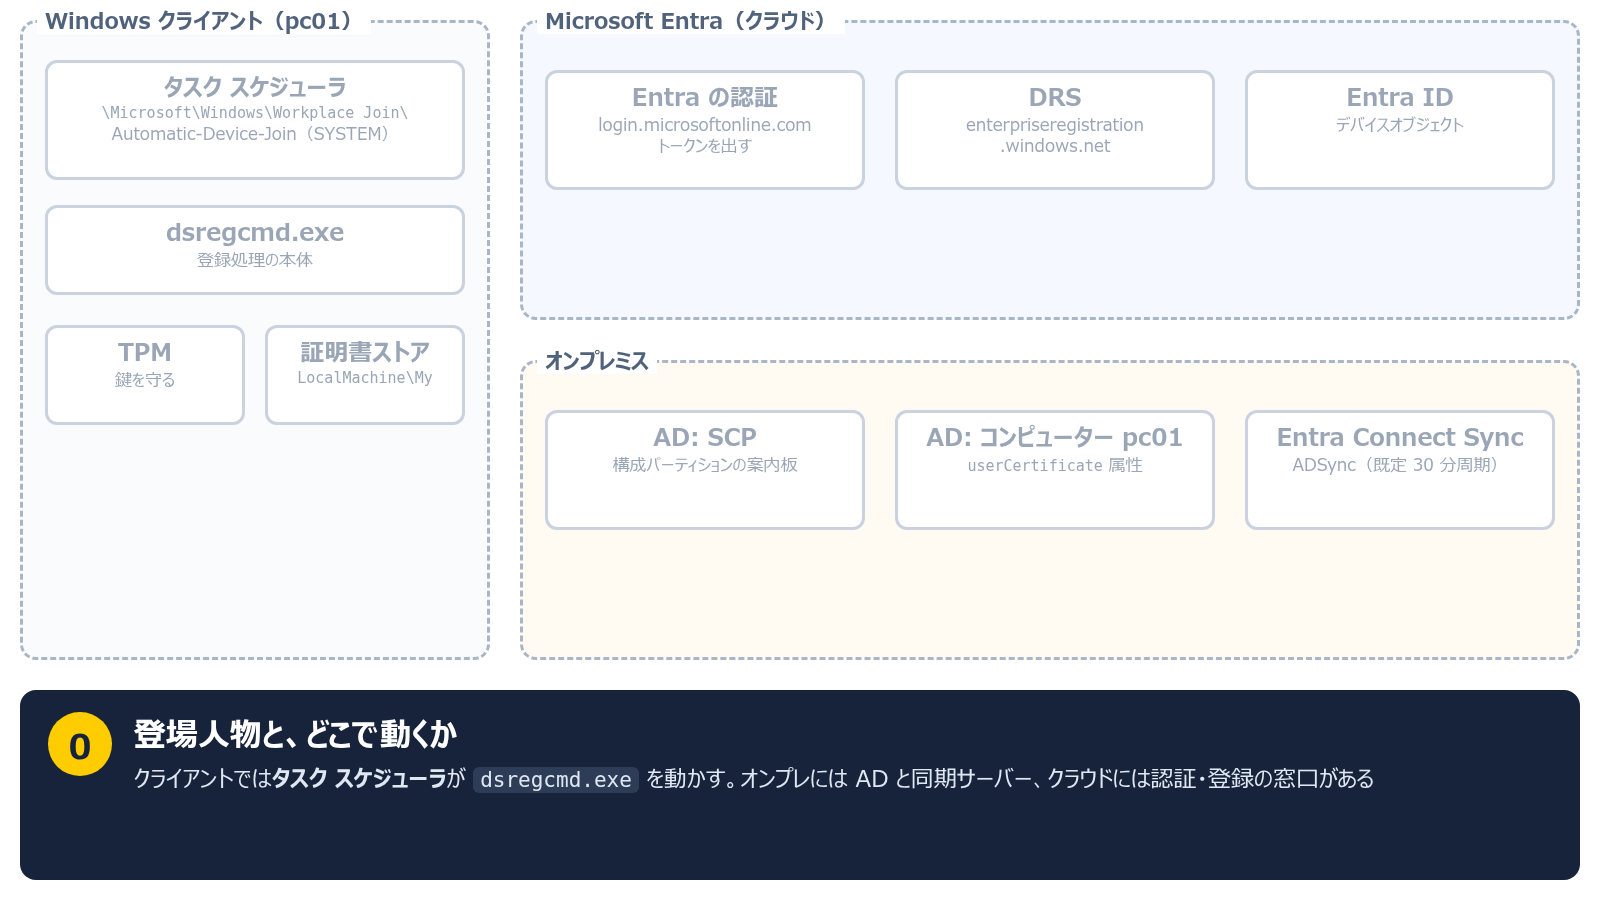
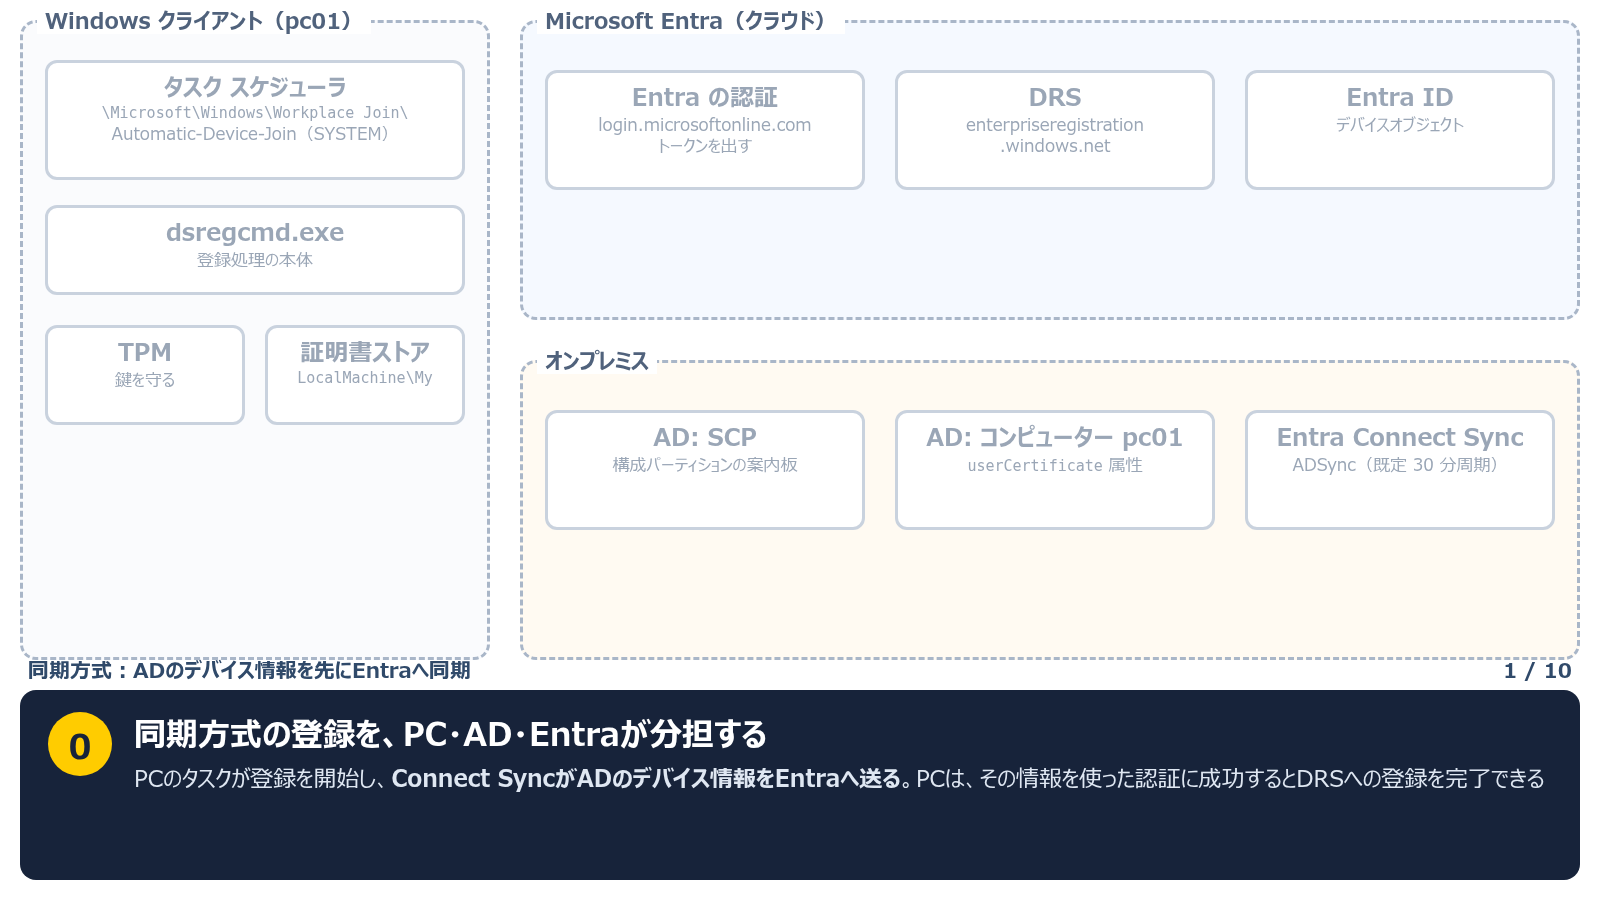
fix: make HCCJP 79 slide wording self-contained

Changed region(s): [[0.0, 0.7156, 0.9688, 0.9022]]

diff --git a/HCCJP_79/session/lab.html b/HCCJP_79/session/lab.html
@@ -1,10 +1,10 @@
-<html><head><meta charset="utf-8"><style>*{box-sizing:border-box}body{margin:0;width:1600px;height:860px;background:#fff;font-family:"Meiryo UI","Meiryo",sans-serif;color:#17233a;position:relative}.t{position:absolute;left:40px;top:24px;font-size:38px;font-weight:700}.box{position:absolute;border:3px solid #39506f;border-radius:14px;padding:12px 14px;font-size:25px;line-height:1.3;background:#f4f7fb;text-align:center}.box b{display:block;font-size:30px;margin-bottom:4px}.cloud{background:#e6f2ff;border-color:#0078d4}.onp{background:#fff6e5;border-color:#c77700}.bad{background:#ffeaea;border-color:#c62828}.ok{background:#e8f7ec;border-color:#1b8a3a}.zone{position:absolute;border:3px dashed #9aa9bd;border-radius:18px}.zl{position:absolute;font-size:27px;font-weight:700;color:#50627c}.s{position:absolute;font-size:25px;line-height:1.3;background:#fff;padding:2px 8px}.n{display:inline-block;width:40px;height:40px;line-height:40px;border-radius:50%;background:#17233a;color:#fff;text-align:center;font-weight:700;font-size:25px;margin-right:6px}.note{position:absolute;font-size:27px;font-weight:700}</style></head><body><div class="t">今回のデモ環境</div>
+<html><head><meta charset="utf-8"><style>*{box-sizing:border-box}body{margin:0;width:1600px;height:860px;background:#fff;font-family:"Meiryo UI","Meiryo",sans-serif;color:#17233a;position:relative}.t{position:absolute;left:40px;top:24px;font-size:38px;font-weight:700}.box{position:absolute;border:3px solid #39506f;border-radius:14px;padding:12px 14px;font-size:25px;line-height:1.3;background:#f4f7fb;text-align:center}.box b{display:block;font-size:30px;margin-bottom:4px}.cloud{background:#e6f2ff;border-color:#0078d4}.onp{background:#fff6e5;border-color:#c77700}.bad{background:#ffeaea;border-color:#c62828}.ok{background:#e8f7ec;border-color:#1b8a3a}.zone{position:absolute;border:3px dashed #9aa9bd;border-radius:18px}.zl{position:absolute;font-size:27px;font-weight:700;color:#50627c}.s{position:absolute;font-size:25px;line-height:1.3;background:#fff;padding:2px 8px}.n{display:inline-block;width:40px;height:40px;line-height:40px;border-radius:50%;background:#17233a;color:#fff;text-align:center;font-weight:700;font-size:25px;margin-right:6px}.note{position:absolute;font-size:27px;font-weight:700}</style></head><body><div class="t">デモ環境：ユーザー同期は有効、デバイス同期は未構成</div>
 <div class="zone" style="left:30px;top:100px;width:900px;height:730px"></div><div class="zl" style="left:50px;top:110px">nestlab（corp.contoso.local）</div>
 <div class="zone" style="left:1000px;top:100px;width:570px;height:730px"></div><div class="zl" style="left:1020px;top:110px">hccjplab.onmicrosoft.com</div>
-<div class="box onp" style="left:70px;top:170px;width:820px;height:300px;text-align:left"><b>dc01（Windows Server 2025 / 26100.33650）</b>・AD DS / DNS<br>・Cloud Sync エージェント（ユーザー同期の担当）<br>・TDO: KERBEROS.MICROSOFTONLINE.COM（受信の信頼）<br>・SCP: テナントの案内板<br>・krbtgt_AzureAD / AzureADKerberos（ユーザー認証の仕組み用）</div>
+<div class="box onp" style="left:70px;top:170px;width:820px;height:300px;text-align:left"><b>dc01（Windows Server 2025 / 26100.33650）</b>・AD DS / DNS<br>・Cloud Sync エージェント（ユーザー同期の担当）<br>・TDO: デモ中に作成（ADがEntraから信頼される関係）<br>・SCP: PCに登録先のEntraテナントを知らせる<br>・krbtgt_AzureAD / AzureADKerberos（ユーザー認証の仕組み用）</div>
 <div class="box" style="left:70px;top:520px;width:390px;height:170px"><b>pc01</b>Windows 11 26200.9711<br>vTPM / ドメイン参加</div>
 <div class="box" style="left:500px;top:520px;width:390px;height:170px"><b>pc02</b>Windows 11 26200.9711<br>vTPM / ドメイン参加</div>
-<div class="box cloud" style="left:1040px;top:170px;width:490px;height:210px"><b>Cloud Sync 構成</b>このラボはユーザー同期<br>デバイス同期は未構成<br>同期の有効化が TDO の前提</div>
-<div class="box cloud ok" style="left:1040px;top:430px;width:490px;height:260px"><b>Device Registration Service</b>SPN: adrs/enterpriseregistration<br>.windows.net<br>タグ: KerberosPolicy:<br>ExchangeForJwt</div>
+<div class="box cloud" style="left:1040px;top:170px;width:490px;height:210px"><b>Cloud Sync 構成</b>ユーザー情報を同期する<br>デバイス同期は未構成<br>TDO作成前に同期を有効化</div>
+<div class="box cloud ok" style="left:1040px;top:420px;width:490px;height:280px"><b>DRS：PCの登録を受け付ける</b>デモ中に追加する設定：<br>SPN: adrs/enterpriseregistration<br>.windows.net<br>タグ: KerberosPolicy:<br>ExchangeForJwt</div>
 <div class="note" style="left:70px;top:730px;color:#c62828">Entra Connect Sync は入れていない<br><span style="color:#50627c;font-size:22px">PC の TPM は Hyper-V の仮想 TPM。鍵を守るのは物理チップではなくホスト</span></div>
 </body></html>

diff --git a/HCCJP_79/session/frames/gen.py b/HCCJP_79/session/frames/gen.py
@@ -89,52 +89,52 @@ def render(name, zones, boxes, steps, upto, title):
     .box.bad em{{background:#c62828}} .box.good em{{background:#1b8a3a}}
     .lbl{{background:#0b6bcb;color:#fff;font-size:19px;border-radius:10px;padding:5px 10px;text-align:center;line-height:1.25;display:inline-block}} .lbl.badl{{background:#c62828}}
     foreignObject div{{margin:0 auto}} foreignObject{{text-align:center}}
-    .head{{position:absolute;left:0;right:0;top:-100px}}
+    .head{{position:absolute;left:28px;right:28px;top:655px;font-size:21px;font-weight:700;color:#304a6a;line-height:28px}} .head span{{float:right}}
     .cap{{position:absolute;left:20px;right:20px;top:690px;height:190px;border-radius:16px;background:#17233a;color:#fff;display:flex;gap:22px;padding:22px 28px;align-items:flex-start}}
     .num{{min-width:64px;height:64px;border-radius:50%;background:#ffcc00;color:#17233a;font-size:34px;font-weight:800;display:flex;align-items:center;justify-content:center}}
     .ct{{font-size:32px;font-weight:700;margin-bottom:8px}} .cd{{font-size:23px;line-height:1.45;color:#dfe7f2}}
     .cd code{{background:#2d3d57;border-radius:6px;padding:1px 7px;font-family:Consolas,monospace;font-size:21px}}
-    </style></head><body>{"".join(parts)}{"".join(svg)}{cap}</body></html>"""
+    </style></head><body>{"".join(parts)}{"".join(svg)}{head}{cap}</body></html>"""
     p = OUT / f"{name}.html"; p.write_text(doc, encoding="utf-8")
 
 OLD = [
-    {"n": "0", "title": "登場人物と、どこで動くか", "desc": "クライアントでは<b>タスク スケジューラ</b>が <code>dsregcmd.exe</code> を動かす。オンプレには AD と同期サーバー、クラウドには認証・登録の窓口がある", "lit": []},
-    {"n": "1", "title": "タスクが起動する", "desc": "<code>Automatic-Device-Join</code> は SYSTEM で動く。きっかけは<b>サインインの1分後</b>、<b>登録イベント 4096</b>、以後<b>1時間ごと</b>。中身は <code>dsregcmd.exe</code>",
+    {"n": "0", "title": "同期方式の登録を、PC・AD・Entraが分担する", "desc": "PCのタスクが登録を開始し、<b>Connect SyncがADのデバイス情報をEntraへ送る</b>。PCは、その情報を使った認証に成功するとDRSへの登録を完了できる", "lit": []},
+    {"n": "1", "title": "PCのタスクがEntraへの登録を開始する", "desc": "<code>Automatic-Device-Join</code> は SYSTEM で動く。きっかけは<b>サインインの1分後</b>、<b>登録イベント 4096</b>、以後<b>1時間ごと</b>。中身は <code>dsregcmd.exe</code>",
      "lit": ["task", "dsreg"], "arrows": [("task", "b", "dsreg", "t", "起動")]},
-    {"n": "2", "title": "SCP を読んで、登録先を知る", "desc": "LDAP で AD の構成パーティションにある SCP を読む。<code>azureADName</code> / <code>azureADId</code> から、どのテナントに登録するかが分かる",
+    {"n": "2", "title": "PCがSCPから登録先テナントを調べる", "desc": "LDAP で AD の構成パーティションにある SCP を読む。<code>azureADName</code> / <code>azureADId</code> から、どのテナントに登録するかが分かる",
      "lit": ["dsreg", "scp"], "arrows": [("dsreg", "r", "scp", "t", "LDAP で読む")]},
-    {"n": "3", "title": "仮の身分証（自己署名証明書）を作って AD に置く", "desc": "<b>鍵は TPM で作る</b>。その鍵で自己署名証明書を作り、<b>証明書ストアには入れず</b> AD の <code>userCertificate</code> にだけ書く。証明書の名前がそのままデバイス ID になる（実機で確認）",
-     "lit": ["dsreg", "tpm", "comp"], "badge": {"comp": "仮の身分証"}, "arrows": [("dsreg", "b", "tpm", "r"), ("dsreg", "r", "comp", "t", "LDAP で書く")]},
-    {"n": "4", "title": "まだ認証できない", "desc": "証明書で Entra に認証しようとしても、Entra にはまだこの PC がいない。<b>「デバイスが見つからない」で失敗</b>し、次のきっかけ（最長1時間後）を待つ",
+    {"n": "3", "title": "PCが初期認証の証明書をADへ書き込む", "desc": "PCはTPMで作った鍵を使い、自己署名証明書を作成する。証明書をADのコンピューターの <code>userCertificate</code> に書く（今回のラボではローカル証明書ストアに保存されなかった）",
+     "lit": ["dsreg", "tpm", "comp"], "badge": {"comp": "初期認証の証明書"}, "arrows": [("dsreg", "b", "tpm", "r"), ("dsreg", "r", "comp", "t", "LDAP で書く")]},
+    {"n": "4", "title": "同期前のPCは、Entraでの認証に失敗する", "desc": "EntraにはPCの証明書と照合するデバイス情報がまだ届いていない。PCの認証は<b>「デバイスが見つからない」で失敗</b>する。同期後に登録を再試行する必要がある",
      "lit": ["dsreg", "login"], "bad": ["login"], "badge": {"login": "見つからない"}, "arrows": [("dsreg", "r", "login", "b", "証明書で認証", "bad")]},
-    {"n": "5", "title": "同期サーバーが変更を拾う", "desc": "Entra Connect Sync が、次の同期サイクル（<b>既定 30 分周期</b>）で <code>userCertificate</code> の付いたコンピューターを読み取る",
+    {"n": "5", "title": "Connect SyncがADのコンピューター情報を読む", "desc": "Entra Connect Sync が、次の同期サイクル（<b>既定 30 分周期</b>）で <code>userCertificate</code> の付いたコンピューターを読み取る",
      "lit": ["comp", "sync"], "arrows": [("comp", "r", "sync", "l", "差分を読む")]},
-    {"n": "6", "title": "Entra にデバイスができる", "desc": "同期サーバーが証明書・objectGUID・SID を送り、Entra に<b>デバイス オブジェクト</b>ができる。ここまでが「同期待ち」",
+    {"n": "6", "title": "同期データからEntraにデバイスが作られる", "desc": "Connect SyncがADの証明書・objectGUID・SIDを送ると、Entraに<b>登録完了前のデバイス情報</b>が作られる。PCはこの情報を使って初期認証できるようになる",
      "lit": ["sync", "entra"], "badge": {"entra": "pc01（保留）"}, "arrows": [("sync", "t", "entra", "b", "デバイスを同期")]},
-    {"n": "7", "title": "次のタスク実行で、やっと認証できる", "desc": "サインインか1時間ごとの実行で、タスクがもう一度動く。今度は Entra に自分がいるので、証明書の秘密鍵で認証して <b>ID トークン</b>をもらえる",
+    {"n": "7", "title": "同期後の再試行で、PCがEntraに認証される", "desc": "PCのタスクが再試行する。Entraは同期済みの証明書情報と、PCの秘密鍵による証明を照合する。認証に成功したPCは、登録に使う<b>IDトークン</b>を取得する",
      "lit": ["task", "dsreg", "login"], "good": ["login"], "badge": {"login": "ID トークン"}, "arrows": [("task", "b", "dsreg", "t"), ("dsreg", "r", "login", "b", "証明書で認証")]},
-    {"n": "8", "title": "TPM で鍵を作り、DRS に登録する", "desc": "TPM で<b>新しい鍵（デバイス鍵）</b>と転送鍵を作り、証明書の要求と ID トークンを DRS に送る。正式な身分証をもらう手続き",
+    {"n": "8", "title": "PCがデバイス鍵を作り、DRSへ登録を要求する", "desc": "PCはTPMでデバイス鍵と転送鍵を用意する。デバイス証明書の要求、転送公開鍵、認証で得たIDトークンなどを<b>DRS（デバイス登録サービス）へ送る</b>",
      "lit": ["tpm", "dsreg", "drs"], "arrows": [("dsreg", "b", "tpm", "r", "鍵"), ("dsreg", "r", "drs", "b", "登録の要求")]},
-    {"n": "9", "title": "正式な身分証（デバイス証明書）を受け取って完了", "desc": "DRS がデバイス証明書（発行者 <code>MS-Organization-Access</code>）を返し、<b>こちらは証明書ストアに入る</b>。<code>dsregcmd /status</code> が <b>AzureAdJoined : YES</b> になる",
+    {"n": "9", "title": "PCがデバイス証明書を受け取り、登録を完了する", "desc": "DRSが発行したデバイス証明書を、PCがローカル証明書ストアへ保存する。登録後は<b>AD参加YES・Entra参加YES</b>となり、ハイブリッド参加が完了する",
      "lit": ["drs", "store", "entra"], "good": ["store", "entra"], "badge": {"store": "デバイス証明書", "entra": "pc01（登録済み）"}, "arrows": [("drs", "b", "store", "r", "証明書を返す")]},
 ]
 NEW = [
-    {"n": "0", "title": "新しい方式の登場人物", "desc": "同期サーバーの代わりに、<b>WS2025 の DC の KDC</b> と <b>Entra の Kerberos</b> が登場する。PC 側の入口は同じタスク スケジューラ", "lit": []},
-    {"n": "1", "title": "タスクが起動し、SCP を読む", "desc": "ここまでは従来と同じ。<code>Automatic-Device-Join</code> が <code>dsregcmd.exe</code> を動かし、SCP から登録先のテナントを知る",
+    {"n": "0", "title": "Kerberos方式では、ADとEntraのKDCがPCを認証する", "desc": "PCはADのDCから紹介チケットを取得し、EntraのKDCからDRS宛てのチケットを取得する。<b>デバイス情報を事前同期する経路を使わず、PCを認証して登録する</b>", "lit": []},
+    {"n": "1", "title": "PCのタスクが起動し、SCPから登録先を調べる", "desc": "<code>Automatic-Device-Join</code> がSYSTEMで <code>dsregcmd.exe</code> を実行する。PCはAD内のSCPを読み、登録先のEntraテナントを調べる",
      "lit": ["task", "dsreg", "scp"], "arrows": [("task", "b", "dsreg", "t"), ("dsreg", "r", "scp", "t", "LDAP で読む")]},
-    {"n": "2", "title": "新方式を試す: DEVICE_AUTO_KERB", "desc": "ビルドが新しい Windows 11 は、まず Kerberos での参加を試す。<b>本人確認を Kerberos チケットで行う</b>。このラボでは専用の追加設定なし。仮の身分証も従来どおり AD に書かれる（実機で確認）",
+    {"n": "2", "title": "PCがKerberos方式での登録を試みる", "desc": "対応ビルドのWindows 11は、<code>DEVICE_AUTO_KERB</code> の登録経路を試す。<b>PCの本人確認にKerberosチケットを使う</b>。今回のラボではADの <code>userCertificate</code> への書き込みも観測した",
      "lit": ["dsreg", "lsa", "comp"], "badge": {"comp": "証明書あり"}, "arrows": [("dsreg", "b", "lsa", "t", "チケットを要求"), ("dsreg", "r", "comp", "t")]},
-    {"n": "3", "title": "DC から TGT と「紹介状」をもらう", "desc": "PC のコンピューター アカウントで DC から TGT を取り、<b>TDO があるので</b> Entra 宛ての紹介チケット <code>krbtgt/KERBEROS.MICROSOFTONLINE.COM</code> ももらう",
-     "lit": ["lsa", "kdc"], "badge": {"kdc": "紹介状を発行"}, "arrows": [("lsa", "r", "kdc", "l", "Kerberos")]},
-    {"n": "4", "title": "Entra の KDC からチケットをもらう", "desc": "紹介状を HTTPS で Entra の Kerberos に出し、<b>DRS 宛てのサービス チケット</b> <code>adrs/enterpriseregistration.windows.net</code> をもらう",
+    {"n": "3", "title": "ADのDCがPCへTGTと紹介チケットを発行する", "desc": "PCはコンピューターアカウントでADに認証する。ADのDCはTGTに加え、<b>TDOの信頼に基づき</b> Entra領域宛ての <code>krbtgt/KERBEROS.MICROSOFTONLINE.COM</code> を発行する",
+     "lit": ["lsa", "kdc"], "badge": {"kdc": "紹介チケットを発行"}, "arrows": [("lsa", "r", "kdc", "l", "Kerberos")]},
+    {"n": "4", "title": "EntraがPCへDRS宛てのサービスチケットを発行する", "desc": "PCはAD発行の紹介チケットを、KDCプロキシ経由のHTTPSでEntraへ提示する。Entraは<b>DRS宛てのサービスチケット</b> <code>adrs/enterpriseregistration.windows.net</code> を発行する",
      "lit": ["lsa", "ekdc"], "good": ["ekdc"], "arrows": [("lsa", "r", "ekdc", "b", "KDC プロキシ（HTTPS）")]},
-    {"n": "5", "title": "チケットを身分証にして DRS に登録", "desc": "<code>KerberosPolicy:ExchangeForJwt</code> を構成した認証・交換の経路を使い、DRS に登録する。デバイス情報の事前同期を待たずに本人確認できる（内部APIの全順序は省略）",
+    {"n": "5", "title": "PCがKerberos認証を使い、DRSへ登録を要求する", "desc": "PCはDRSのSPN・タグで有効にしたKerberos認証・トークン交換の経路を使い、DRSへ登録を要求する。<b>Entraにデバイス情報が事前同期されていなくても認証を進められる</b>（内部APIは省略）",
      "lit": ["dsreg", "drs", "tpm"], "arrows": [("dsreg", "b", "tpm", "r", "鍵"), ("dsreg", "r", "drs", "b", "チケット＋登録の要求")]},
-    {"n": "6", "title": "その場で完了", "desc": "DRS がデバイスを作ってデバイス証明書を返す。<b>同期を待つ工程が無い</b>。デモ環境では 16〜18 秒で終わった",
+    {"n": "6", "title": "DRSがデバイスを作り、PCの登録が完了する", "desc": "DRSはEntraにデバイスを作成し、PCへデバイス証明書を返す。PCは証明書を保存して登録を完了する。<b>登録前のデバイス同期待ちはない</b>（ラボでは約7秒／16〜18秒。保証値ではない）",
      "lit": ["drs", "store", "entra"], "good": ["store", "entra"], "badge": {"store": "デバイス証明書", "entra": "pc01（登録済み）"}, "arrows": [("drs", "r", "entra", "l", "作成"), ("drs", "b", "store", "r", "証明書を返す")]},
 ]
-for i in range(len(OLD)): render(f"hj_old_{i:02d}", ZONES_OLD, BOX_OLD, OLD, i, "従来")
-for i in range(len(NEW)): render(f"hj_new_{i:02d}", ZONES_OLD, BOX_NEW, NEW, i, "新方式")
+for i in range(len(OLD)): render(f"hj_old_{i:02d}", ZONES_OLD, BOX_OLD, OLD, i, "同期方式：ADのデバイス情報を先にEntraへ同期")
+for i in range(len(NEW)): render(f"hj_new_{i:02d}", ZONES_OLD, BOX_NEW, NEW, i, "Kerberos方式：ADのチケットでPCを認証して登録")
 from playwright.sync_api import sync_playwright
 with sync_playwright() as pw:
     b = pw.chromium.launch(executable_path=CHROME, args=["--no-sandbox"])
